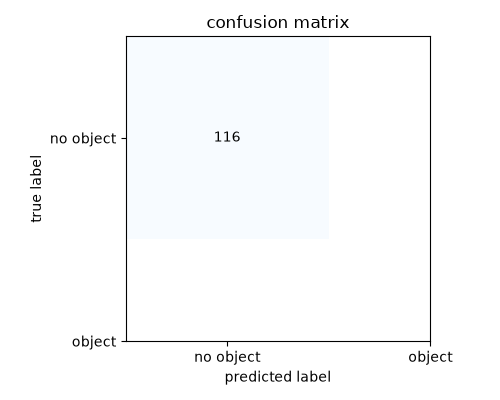
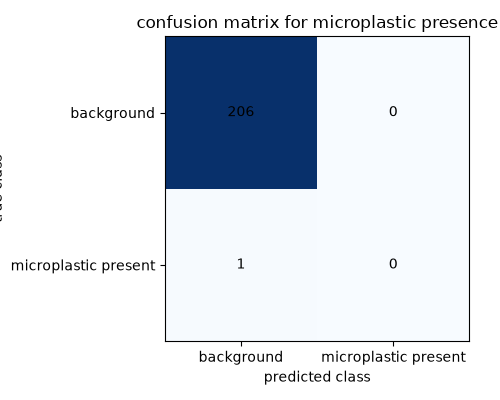
ensures no error for train.py

diff --git a/src/train.py b/src/train.py
@@ -32,7 +32,7 @@ LABELS_PATH = dataset_path.parent / "labels" / "cleaned_annotations.csv"  # buil
 
 DEVICE = torch.device("cuda" if torch.cuda.is_available() else "cpu")  # choose the GPU if it is available, otherwise use the CPU.
 BATCH_SIZE = 32  # set the batch size for mini-batch training.
-EPOCHS = 12  # set the number of training epochs.
+EPOCHS = 5  # set the number of training epochs.
 LEARNING_RATE = 0.001  # set the learning rate for the optimizer.
 
 